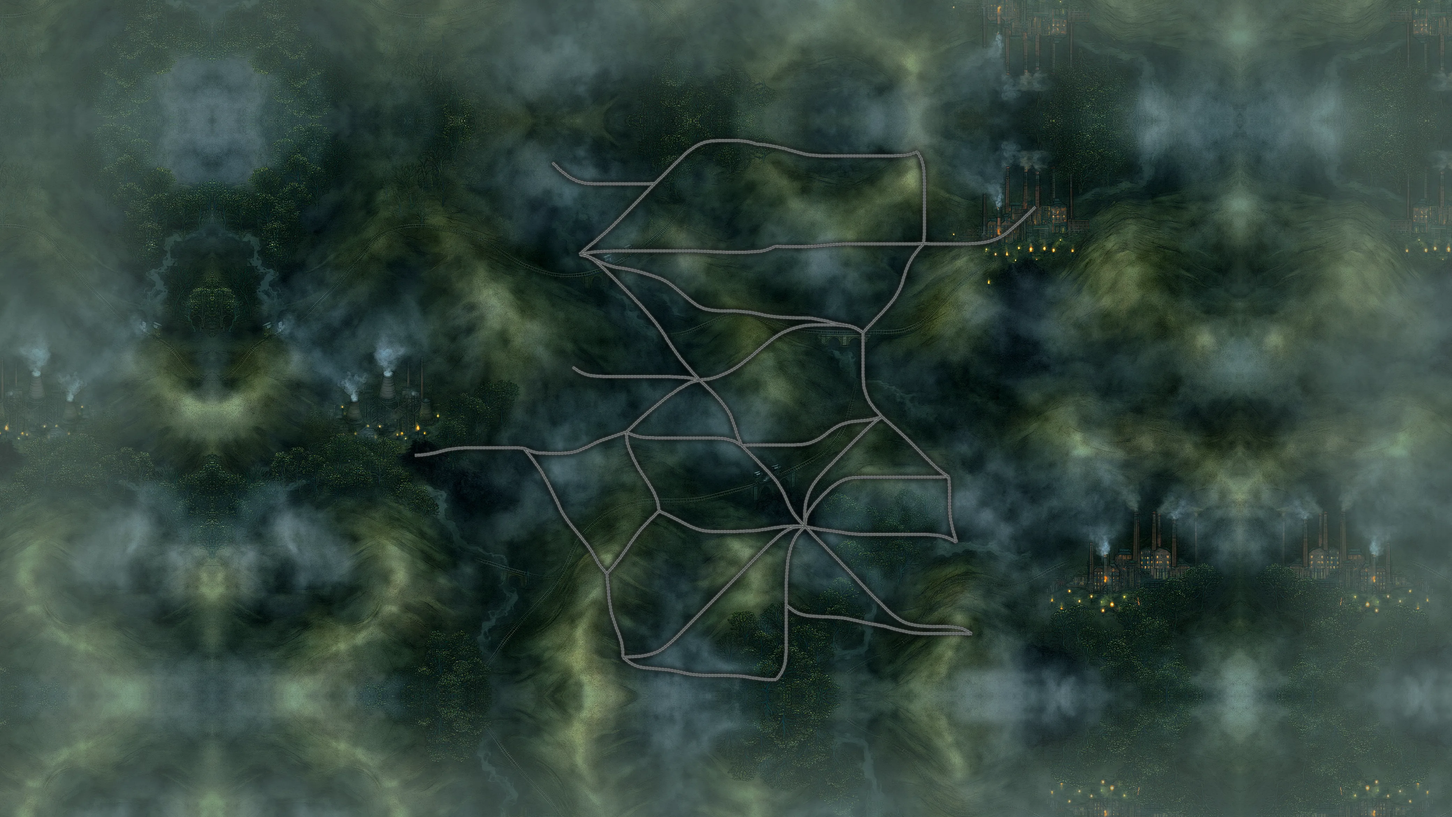
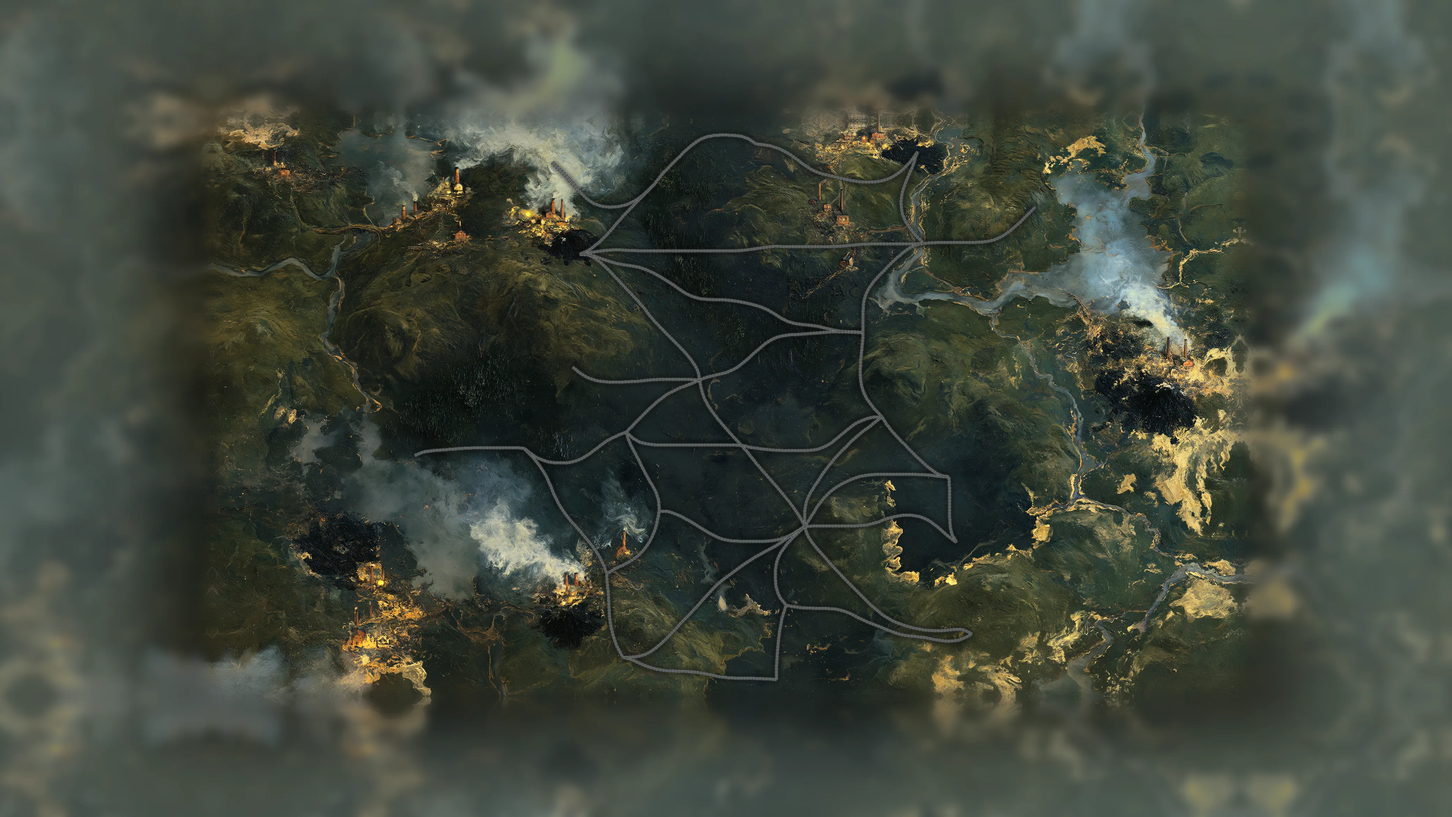
feat(assets): bare land for the rail era's second painting
The second painting no longer carries railways of its own: a plan view
of open hills, mills and slag heaps, so the engraved rails are the only
rails on the map. The routes are retraced on its relief. Past the
painting, the mirrored bleed is blurred and darkened: a bright mill at
the edge no longer comes back as a kaleidoscope.

diff --git a/app/src/components/game/railRoutes.ts b/app/src/components/game/railRoutes.ts
@@ -1,42 +1,42 @@
 /* generated by tools/map/rail-routes.py — the rail routes traced on the
  * relief of the rail-era painting; do not edit by hand */
 export const RAIL_ROUTES: Record<string, [number, number][]> = {
-  'nuneaton--coventry': [[2238, 1095], [2238, 1100], [2239, 1105], [2239, 1110], [2239, 1114], [2239, 1119], [2240, 1124], [2240, 1129], [2240, 1134], [2240, 1139], [2240, 1144], [2240, 1149], [2240, 1154], [2240, 1158], [2240, 1163], [2240, 1168], [2240, 1173], [2240, 1178], [2240, 1183], [2240, 1188], [2241, 1193], [2241, 1197], [2241, 1202], [2242, 1207], [2242, 1212], [2243, 1217], [2244, 1222], [2245, 1227], [2246, 1231], [2247, 1236], [2248, 1241], [2249, 1246], [2250, 1250], [2252, 1255], [2253, 1260], [2255, 1264], [2256, 1269], [2257, 1274], [2259, 1278], [2260, 1283]],
-  'redditch--m-gloucester': [[1772, 1463], [1772, 1469], [1772, 1474], [1772, 1480], [1772, 1486], [1772, 1491], [1772, 1497], [1772, 1502], [1772, 1508], [1772, 1514], [1772, 1519], [1772, 1525], [1772, 1531], [1772, 1536], [1772, 1542], [1772, 1548], [1772, 1553], [1772, 1559], [1772, 1564], [1772, 1570], [1772, 1576], [1772, 1581], [1772, 1587], [1772, 1593], [1772, 1598], [1771, 1604], [1771, 1609], [1770, 1615], [1770, 1621], [1769, 1626], [1768, 1632], [1766, 1637], [1765, 1643], [1762, 1648], [1760, 1653], [1757, 1658], [1754, 1662], [1751, 1667], [1747, 1671], [1744, 1676]],
-  'cannock--walsall': [[1524, 818], [1528, 822], [1532, 826], [1537, 830], [1541, 834], [1545, 838], [1549, 842], [1554, 846], [1558, 850], [1562, 854], [1566, 858], [1570, 862], [1574, 867], [1578, 871], [1582, 875], [1586, 880], [1589, 884], [1593, 889], [1596, 893], [1600, 898], [1603, 903], [1606, 908], [1609, 913], [1612, 918], [1614, 923], [1616, 929], [1618, 934], [1620, 939], [1622, 945], [1624, 950], [1626, 956], [1628, 962], [1629, 967], [1631, 973], [1633, 978], [1635, 983], [1638, 989], [1640, 994], [1642, 1000], [1644, 1005]],
-  'birmingham--redditch': [[1826, 1237], [1822, 1241], [1817, 1246], [1813, 1250], [1809, 1255], [1805, 1259], [1801, 1264], [1798, 1269], [1795, 1275], [1792, 1280], [1790, 1286], [1787, 1292], [1785, 1298], [1784, 1303], [1782, 1309], [1781, 1315], [1779, 1322], [1778, 1328], [1777, 1334], [1776, 1340], [1776, 1346], [1775, 1352], [1775, 1358], [1774, 1364], [1774, 1370], [1773, 1377], [1773, 1383], [1773, 1389], [1772, 1395], [1772, 1401], [1772, 1407], [1772, 1414], [1772, 1420], [1772, 1426], [1772, 1432], [1772, 1438], [1772, 1444], [1772, 1451], [1772, 1457], [1772, 1463]],
-  'dudley--kidderminster': [[1408, 1193], [1404, 1197], [1399, 1201], [1395, 1206], [1391, 1210], [1386, 1214], [1382, 1218], [1378, 1222], [1374, 1227], [1369, 1231], [1365, 1236], [1361, 1240], [1357, 1244], [1353, 1249], [1349, 1254], [1346, 1258], [1342, 1263], [1338, 1268], [1335, 1273], [1331, 1278], [1328, 1282], [1324, 1287], [1321, 1292], [1318, 1297], [1314, 1302], [1311, 1307], [1307, 1312], [1304, 1317], [1300, 1322], [1297, 1327], [1293, 1332], [1289, 1336], [1285, 1341], [1282, 1346], [1278, 1350], [1274, 1355], [1270, 1359], [1266, 1364], [1262, 1368], [1258, 1373]],
-  'stafford--cannock': [[1378, 630], [1382, 635], [1386, 639], [1390, 644], [1394, 649], [1398, 653], [1401, 658], [1405, 663], [1409, 668], [1412, 673], [1416, 678], [1419, 683], [1423, 688], [1426, 693], [1429, 699], [1432, 704], [1436, 709], [1439, 714], [1442, 719], [1446, 724], [1449, 729], [1453, 734], [1456, 739], [1460, 744], [1464, 749], [1467, 754], [1471, 759], [1475, 763], [1479, 768], [1483, 773], [1487, 777], [1491, 782], [1495, 786], [1499, 791], [1503, 796], [1507, 800], [1512, 805], [1516, 809], [1520, 814], [1524, 818]],
-  'kidderminster--worcester': [[1258, 1373], [1259, 1379], [1259, 1386], [1260, 1392], [1260, 1398], [1261, 1404], [1262, 1411], [1262, 1417], [1263, 1423], [1263, 1429], [1264, 1436], [1264, 1442], [1265, 1448], [1266, 1454], [1267, 1461], [1268, 1467], [1269, 1473], [1270, 1479], [1271, 1485], [1273, 1491], [1275, 1497], [1277, 1503], [1279, 1509], [1281, 1515], [1283, 1521], [1285, 1527], [1287, 1533], [1290, 1539], [1292, 1544], [1294, 1550], [1296, 1556], [1298, 1562], [1300, 1568], [1301, 1574], [1302, 1581], [1303, 1587], [1304, 1593], [1304, 1599], [1304, 1606], [1304, 1612]],
-  'wolverhampton--dudley': [[1314, 967], [1314, 973], [1315, 980], [1315, 986], [1316, 992], [1317, 999], [1319, 1005], [1321, 1011], [1323, 1017], [1326, 1023], [1328, 1028], [1331, 1034], [1333, 1040], [1336, 1046], [1339, 1051], [1342, 1057], [1345, 1063], [1348, 1068], [1351, 1074], [1355, 1079], [1358, 1085], [1362, 1090], [1365, 1095], [1369, 1100], [1372, 1106], [1376, 1111], [1379, 1116], [1382, 1122], [1386, 1127], [1389, 1133], [1392, 1138], [1395, 1144], [1397, 1150], [1400, 1156], [1402, 1162], [1404, 1168], [1405, 1174], [1406, 1180], [1407, 1187], [1408, 1193]],
-  'burton--tamworth': [[1992, 682], [1992, 689], [1992, 695], [1992, 702], [1992, 708], [1992, 715], [1992, 722], [1992, 728], [1992, 735], [1992, 741], [1992, 748], [1992, 754], [1992, 761], [1992, 768], [1992, 774], [1992, 781], [1992, 787], [1992, 794], [1992, 801], [1992, 807], [1993, 814], [1993, 820], [1994, 827], [1994, 833], [1995, 840], [1997, 846], [1999, 853], [2001, 859], [2003, 865], [2006, 871], [2009, 877], [2012, 883], [2016, 888], [2020, 893], [2024, 899], [2028, 904], [2033, 908], [2037, 913], [2042, 918], [2046, 923]],
-  'cannock--wolverhampton': [[1524, 818], [1518, 820], [1511, 821], [1505, 823], [1498, 825], [1492, 828], [1486, 831], [1481, 834], [1475, 838], [1469, 841], [1463, 844], [1458, 848], [1452, 852], [1447, 856], [1441, 859], [1436, 863], [1430, 867], [1425, 871], [1420, 875], [1415, 879], [1409, 884], [1404, 888], [1399, 892], [1394, 896], [1389, 900], [1383, 905], [1378, 909], [1373, 913], [1368, 918], [1363, 922], [1358, 926], [1353, 931], [1348, 935], [1343, 940], [1338, 944], [1334, 949], [1329, 953], [1324, 958], [1319, 962], [1314, 967]],
-  'tamworth--nuneaton': [[2046, 923], [2051, 927], [2056, 932], [2061, 936], [2066, 940], [2071, 944], [2076, 949], [2081, 953], [2086, 957], [2091, 962], [2096, 966], [2101, 971], [2106, 975], [2111, 980], [2116, 984], [2120, 989], [2125, 993], [2130, 998], [2135, 1003], [2139, 1007], [2144, 1012], [2149, 1017], [2153, 1021], [2158, 1026], [2163, 1031], [2167, 1035], [2172, 1040], [2177, 1045], [2182, 1049], [2186, 1054], [2191, 1058], [2196, 1063], [2201, 1068], [2206, 1072], [2211, 1076], [2216, 1080], [2221, 1084], [2227, 1088], [2232, 1091], [2238, 1095]],
-  'stone--stafford': [[1180, 458], [1187, 460], [1193, 461], [1200, 463], [1206, 465], [1212, 469], [1218, 472], [1223, 476], [1229, 481], [1234, 485], [1239, 489], [1244, 494], [1249, 498], [1254, 503], [1259, 508], [1264, 513], [1269, 517], [1274, 522], [1279, 527], [1284, 532], [1288, 536], [1293, 541], [1298, 546], [1303, 551], [1308, 556], [1313, 561], [1317, 565], [1322, 570], [1327, 575], [1332, 580], [1337, 585], [1341, 590], [1346, 595], [1351, 599], [1355, 604], [1360, 609], [1365, 615], [1369, 620], [1374, 625], [1378, 630]],
-  'belper--derby': [[2148, 164], [2151, 170], [2154, 176], [2158, 182], [2160, 188], [2162, 195], [2164, 202], [2165, 208], [2166, 215], [2167, 222], [2167, 229], [2167, 236], [2168, 242], [2168, 249], [2168, 256], [2168, 263], [2168, 270], [2168, 277], [2168, 283], [2168, 290], [2168, 297], [2168, 304], [2168, 311], [2168, 318], [2168, 324], [2168, 331], [2168, 338], [2168, 345], [2168, 352], [2168, 359], [2168, 365], [2168, 372], [2168, 379], [2168, 386], [2168, 393], [2168, 400], [2167, 407], [2167, 413], [2166, 420], [2166, 427]],
-  'birmingham--walsall': [[1826, 1237], [1821, 1232], [1815, 1226], [1810, 1221], [1805, 1215], [1800, 1209], [1795, 1203], [1791, 1197], [1787, 1190], [1783, 1183], [1780, 1177], [1777, 1170], [1774, 1163], [1771, 1156], [1768, 1149], [1765, 1142], [1761, 1135], [1757, 1128], [1753, 1122], [1749, 1115], [1745, 1109], [1740, 1103], [1735, 1097], [1730, 1092], [1725, 1086], [1720, 1080], [1714, 1075], [1709, 1069], [1704, 1064], [1698, 1059], [1693, 1053], [1688, 1048], [1682, 1042], [1677, 1037], [1671, 1032], [1666, 1026], [1660, 1021], [1655, 1016], [1649, 1010], [1644, 1005]],
-  'stoke--stone': [[1396, 255], [1391, 260], [1385, 266], [1380, 271], [1375, 277], [1369, 282], [1364, 288], [1359, 293], [1353, 299], [1348, 304], [1343, 309], [1337, 315], [1332, 320], [1327, 325], [1321, 331], [1316, 336], [1310, 342], [1305, 347], [1300, 352], [1294, 358], [1289, 363], [1283, 368], [1278, 374], [1272, 379], [1267, 384], [1261, 389], [1256, 394], [1250, 399], [1244, 404], [1238, 409], [1232, 414], [1227, 419], [1221, 424], [1215, 428], [1209, 433], [1203, 438], [1197, 443], [1191, 448], [1186, 453], [1180, 458]],
-  'wolverhampton--coalbrookdale': [[1314, 967], [1307, 969], [1299, 972], [1292, 974], [1284, 977], [1277, 979], [1269, 982], [1262, 984], [1254, 987], [1247, 989], [1239, 992], [1232, 995], [1225, 998], [1218, 1002], [1211, 1005], [1204, 1009], [1196, 1012], [1189, 1015], [1182, 1018], [1175, 1021], [1167, 1023], [1159, 1025], [1151, 1026], [1144, 1027], [1136, 1027], [1128, 1028], [1120, 1028], [1112, 1028], [1104, 1028], [1096, 1028], [1089, 1028], [1081, 1027], [1073, 1027], [1065, 1027], [1057, 1026], [1049, 1024], [1042, 1022], [1034, 1019], [1027, 1016], [1020, 1013]],
-  'm-warrington--stoke': [[1102, 195], [1108, 201], [1114, 206], [1119, 212], [1125, 217], [1131, 222], [1138, 227], [1144, 232], [1151, 237], [1158, 241], [1165, 244], [1172, 248], [1180, 250], [1187, 252], [1195, 254], [1203, 255], [1211, 255], [1219, 256], [1227, 256], [1235, 256], [1243, 256], [1251, 256], [1260, 256], [1268, 256], [1276, 256], [1284, 256], [1292, 256], [1300, 256], [1308, 256], [1316, 256], [1324, 256], [1332, 256], [1340, 256], [1348, 256], [1356, 256], [1364, 256], [1372, 256], [1380, 256], [1388, 255], [1396, 255]],
-  'derby--burton': [[2166, 427], [2161, 433], [2155, 439], [2150, 445], [2145, 451], [2140, 458], [2135, 464], [2131, 471], [2127, 478], [2123, 485], [2120, 492], [2117, 500], [2114, 507], [2112, 515], [2109, 523], [2107, 530], [2105, 538], [2102, 546], [2099, 553], [2096, 560], [2092, 567], [2088, 574], [2084, 581], [2079, 588], [2074, 594], [2069, 600], [2064, 606], [2059, 612], [2053, 618], [2048, 624], [2042, 630], [2036, 636], [2031, 641], [2025, 647], [2020, 653], [2014, 659], [2009, 664], [2003, 670], [1998, 676], [1992, 682]],
-  'stoke--leek': [[1396, 255], [1402, 249], [1408, 243], [1415, 237], [1421, 231], [1427, 225], [1433, 219], [1439, 213], [1445, 207], [1451, 201], [1457, 195], [1464, 189], [1470, 183], [1476, 177], [1482, 171], [1489, 165], [1496, 160], [1503, 155], [1510, 150], [1517, 146], [1525, 142], [1533, 139], [1541, 136], [1550, 135], [1558, 133], [1567, 133], [1575, 132], [1584, 132], [1592, 132], [1601, 132], [1610, 132], [1618, 132], [1627, 132], [1636, 132], [1644, 133], [1653, 134], [1661, 135], [1670, 137], [1678, 139], [1686, 142]],
-  'coalbrookdale--m-shrewsbury': [[1020, 1013], [1012, 1013], [1004, 1012], [996, 1012], [988, 1012], [980, 1012], [972, 1012], [964, 1012], [956, 1012], [948, 1012], [940, 1012], [931, 1012], [923, 1012], [915, 1012], [907, 1012], [899, 1012], [891, 1012], [883, 1012], [875, 1012], [867, 1012], [859, 1012], [851, 1012], [843, 1013], [835, 1013], [827, 1014], [819, 1015], [811, 1016], [803, 1017], [795, 1019], [787, 1021], [779, 1023], [772, 1025], [764, 1027], [756, 1028], [748, 1030], [740, 1031], [732, 1032], [724, 1033], [716, 1033], [708, 1034]],
-  'walsall--wolverhampton': [[1644, 1005], [1637, 1001], [1629, 996], [1621, 992], [1613, 990], [1605, 988], [1596, 986], [1588, 985], [1579, 985], [1570, 984], [1562, 984], [1553, 984], [1545, 984], [1536, 984], [1527, 984], [1519, 984], [1510, 984], [1501, 984], [1493, 984], [1484, 984], [1475, 984], [1467, 984], [1458, 984], [1450, 984], [1441, 984], [1432, 984], [1424, 984], [1415, 984], [1406, 984], [1398, 984], [1389, 983], [1380, 983], [1372, 983], [1363, 982], [1355, 981], [1346, 979], [1338, 977], [1330, 974], [1322, 971], [1314, 967]],
-  'derby--m-nottingham': [[2166, 427], [2175, 427], [2184, 428], [2193, 428], [2202, 428], [2212, 428], [2221, 428], [2230, 428], [2239, 428], [2248, 428], [2257, 428], [2266, 428], [2275, 428], [2284, 428], [2294, 428], [2303, 427], [2312, 427], [2321, 426], [2330, 425], [2339, 424], [2348, 422], [2357, 420], [2365, 417], [2374, 414], [2382, 410], [2390, 406], [2398, 401], [2405, 396], [2412, 390], [2419, 384], [2426, 378], [2433, 372], [2440, 366], [2447, 360], [2453, 354], [2460, 347], [2467, 341], [2473, 335], [2480, 328], [2486, 322]],
-  'cannock--farm-n': [[1524, 818], [1515, 816], [1505, 814], [1496, 812], [1487, 811], [1477, 810], [1468, 810], [1458, 809], [1449, 809], [1439, 808], [1430, 808], [1420, 808], [1411, 808], [1401, 808], [1392, 808], [1382, 808], [1373, 808], [1363, 808], [1354, 808], [1344, 808], [1335, 808], [1325, 808], [1316, 808], [1306, 808], [1297, 808], [1287, 808], [1278, 808], [1268, 808], [1259, 808], [1249, 808], [1240, 807], [1230, 807], [1221, 806], [1211, 805], [1202, 803], [1193, 800], [1184, 796], [1176, 792], [1168, 786], [1160, 781]],
-  'tamworth--birmingham': [[2046, 923], [2038, 929], [2029, 935], [2021, 942], [2014, 948], [2006, 955], [1999, 962], [1991, 969], [1984, 977], [1976, 984], [1969, 991], [1962, 998], [1954, 1006], [1947, 1013], [1940, 1020], [1933, 1027], [1925, 1035], [1918, 1042], [1911, 1049], [1904, 1057], [1896, 1064], [1889, 1071], [1882, 1079], [1875, 1086], [1868, 1094], [1861, 1102], [1855, 1110], [1849, 1118], [1844, 1127], [1839, 1136], [1835, 1146], [1832, 1155], [1829, 1165], [1827, 1175], [1826, 1186], [1825, 1196], [1825, 1206], [1825, 1216], [1825, 1227], [1826, 1237]],
-  'tamworth--walsall': [[2046, 923], [2036, 926], [2025, 929], [2015, 931], [2004, 933], [1993, 934], [1983, 935], [1972, 936], [1961, 937], [1951, 939], [1940, 942], [1930, 945], [1920, 950], [1911, 955], [1902, 961], [1893, 967], [1885, 974], [1876, 980], [1867, 986], [1857, 991], [1848, 995], [1837, 999], [1827, 1001], [1816, 1003], [1805, 1003], [1795, 1004], [1784, 1004], [1773, 1004], [1762, 1004], [1752, 1004], [1741, 1004], [1730, 1004], [1719, 1004], [1709, 1004], [1698, 1004], [1687, 1004], [1676, 1004], [1666, 1004], [1655, 1005], [1644, 1005]],
-  'birmingham--dudley': [[1826, 1237], [1815, 1237], [1804, 1236], [1793, 1236], [1782, 1237], [1771, 1237], [1760, 1238], [1749, 1240], [1738, 1241], [1727, 1243], [1716, 1245], [1705, 1246], [1694, 1248], [1683, 1249], [1672, 1250], [1661, 1250], [1650, 1251], [1639, 1251], [1628, 1252], [1617, 1252], [1606, 1252], [1595, 1252], [1584, 1252], [1572, 1252], [1561, 1252], [1550, 1251], [1539, 1250], [1529, 1248], [1518, 1245], [1507, 1241], [1497, 1237], [1487, 1232], [1477, 1227], [1468, 1222], [1458, 1217], [1448, 1212], [1438, 1207], [1428, 1202], [1418, 1198], [1408, 1193]],
-  'derby--uttoxeter': [[2166, 427], [2155, 427], [2144, 428], [2133, 428], [2122, 428], [2111, 428], [2100, 428], [2089, 428], [2079, 428], [2068, 428], [2057, 428], [2046, 428], [2035, 428], [2024, 428], [2013, 428], [2002, 428], [1991, 428], [1980, 428], [1969, 428], [1958, 428], [1947, 428], [1936, 428], [1926, 429], [1915, 429], [1904, 430], [1893, 431], [1882, 432], [1871, 433], [1860, 434], [1849, 435], [1838, 435], [1827, 436], [1817, 436], [1806, 436], [1795, 436], [1784, 436], [1773, 436], [1762, 436], [1751, 435], [1740, 435]],
-  'coalbrookdale--kidderminster': [[1020, 1013], [1027, 1022], [1034, 1030], [1041, 1039], [1048, 1048], [1054, 1057], [1061, 1066], [1067, 1075], [1073, 1084], [1078, 1094], [1084, 1104], [1089, 1113], [1094, 1123], [1099, 1133], [1104, 1143], [1109, 1153], [1114, 1163], [1119, 1173], [1123, 1183], [1128, 1193], [1134, 1203], [1140, 1212], [1146, 1221], [1153, 1230], [1160, 1239], [1167, 1247], [1174, 1256], [1181, 1264], [1188, 1273], [1195, 1282], [1202, 1290], [1208, 1299], [1215, 1309], [1220, 1318], [1226, 1328], [1231, 1338], [1237, 1347], [1244, 1356], [1251, 1364], [1258, 1373]],
-  'nuneaton--birmingham': [[2238, 1095], [2226, 1095], [2213, 1096], [2201, 1096], [2189, 1096], [2176, 1096], [2164, 1096], [2151, 1096], [2139, 1096], [2127, 1096], [2114, 1096], [2102, 1096], [2090, 1096], [2077, 1096], [2065, 1096], [2052, 1096], [2040, 1096], [2028, 1096], [2015, 1096], [2003, 1096], [1991, 1096], [1978, 1097], [1966, 1097], [1954, 1099], [1942, 1102], [1930, 1107], [1919, 1113], [1909, 1120], [1899, 1127], [1890, 1136], [1881, 1144], [1872, 1153], [1864, 1162], [1855, 1171], [1848, 1181], [1840, 1191], [1834, 1201], [1829, 1212], [1827, 1225], [1826, 1237]],
-  'coventry--birmingham': [[2260, 1283], [2250, 1277], [2240, 1272], [2230, 1268], [2219, 1265], [2208, 1263], [2197, 1262], [2185, 1261], [2174, 1260], [2163, 1260], [2152, 1260], [2140, 1260], [2129, 1260], [2118, 1260], [2106, 1260], [2095, 1260], [2084, 1260], [2073, 1260], [2061, 1260], [2050, 1260], [2039, 1260], [2027, 1260], [2016, 1260], [2005, 1260], [1994, 1260], [1982, 1260], [1971, 1259], [1960, 1258], [1949, 1257], [1937, 1255], [1926, 1253], [1915, 1252], [1904, 1250], [1893, 1249], [1881, 1247], [1870, 1246], [1859, 1244], [1848, 1242], [1837, 1240], [1826, 1237]],
-  'worcester--m-gloucester': [[1304, 1612], [1313, 1619], [1322, 1626], [1332, 1632], [1343, 1637], [1354, 1640], [1365, 1642], [1377, 1643], [1388, 1644], [1400, 1645], [1411, 1646], [1423, 1647], [1434, 1648], [1446, 1650], [1457, 1652], [1468, 1654], [1480, 1657], [1491, 1659], [1502, 1661], [1514, 1662], [1525, 1663], [1537, 1664], [1548, 1664], [1560, 1664], [1571, 1664], [1583, 1664], [1595, 1664], [1606, 1664], [1618, 1665], [1629, 1665], [1641, 1666], [1652, 1667], [1664, 1669], [1675, 1671], [1686, 1672], [1698, 1674], [1709, 1675], [1721, 1676], [1732, 1676], [1744, 1676]],
-  'leek--belper': [[1686, 142], [1698, 143], [1710, 144], [1722, 146], [1734, 148], [1745, 150], [1757, 153], [1769, 155], [1780, 159], [1792, 162], [1803, 165], [1815, 168], [1826, 171], [1838, 173], [1850, 174], [1862, 175], [1874, 176], [1886, 176], [1898, 176], [1910, 176], [1922, 176], [1934, 176], [1946, 176], [1958, 176], [1970, 176], [1982, 176], [1994, 176], [2006, 176], [2018, 176], [2030, 176], [2042, 176], [2054, 176], [2066, 176], [2078, 176], [2090, 175], [2102, 175], [2113, 174], [2125, 172], [2137, 168], [2148, 164]],
-  'burton--cannock': [[1992, 682], [1981, 675], [1969, 668], [1957, 664], [1944, 662], [1931, 661], [1917, 660], [1904, 660], [1891, 660], [1878, 660], [1864, 660], [1851, 660], [1838, 661], [1825, 662], [1812, 665], [1799, 668], [1786, 672], [1774, 677], [1762, 682], [1750, 689], [1739, 696], [1728, 704], [1718, 712], [1708, 720], [1697, 729], [1687, 737], [1677, 746], [1667, 754], [1656, 762], [1646, 770], [1635, 778], [1624, 785], [1612, 792], [1600, 798], [1588, 803], [1576, 808], [1563, 812], [1550, 815], [1537, 816], [1524, 818]],
-  'redditch--m-oxford': [[1772, 1463], [1783, 1471], [1795, 1480], [1807, 1486], [1820, 1490], [1834, 1493], [1848, 1494], [1862, 1495], [1876, 1496], [1890, 1496], [1904, 1497], [1918, 1498], [1932, 1499], [1945, 1501], [1959, 1504], [1973, 1507], [1986, 1510], [2000, 1513], [2014, 1516], [2027, 1518], [2041, 1521], [2055, 1523], [2068, 1527], [2082, 1531], [2095, 1534], [2109, 1537], [2123, 1540], [2136, 1542], [2150, 1543], [2164, 1544], [2178, 1544], [2192, 1544], [2206, 1544], [2220, 1544], [2234, 1544], [2248, 1544], [2262, 1544], [2276, 1544], [2290, 1545], [2304, 1545]],
-  'uttoxeter--stone': [[1740, 435], [1727, 441], [1713, 446], [1699, 449], [1685, 450], [1670, 451], [1656, 452], [1641, 452], [1627, 452], [1613, 452], [1598, 452], [1584, 451], [1569, 451], [1555, 450], [1540, 449], [1526, 449], [1512, 448], [1497, 448], [1483, 448], [1468, 448], [1454, 448], [1439, 448], [1425, 448], [1410, 448], [1396, 448], [1382, 448], [1367, 448], [1353, 448], [1338, 448], [1324, 448], [1309, 448], [1295, 448], [1280, 448], [1266, 449], [1252, 449], [1237, 450], [1223, 451], [1208, 453], [1194, 455], [1180, 458]],
-  'birmingham--m-oxford': [[1826, 1237], [1837, 1248], [1847, 1259], [1858, 1270], [1869, 1281], [1880, 1291], [1890, 1302], [1901, 1313], [1912, 1324], [1923, 1335], [1933, 1346], [1944, 1357], [1955, 1368], [1965, 1379], [1976, 1390], [1986, 1401], [1997, 1412], [2007, 1423], [2018, 1434], [2029, 1445], [2040, 1455], [2051, 1466], [2062, 1477], [2073, 1487], [2085, 1496], [2098, 1505], [2111, 1512], [2126, 1517], [2141, 1520], [2156, 1522], [2171, 1523], [2186, 1524], [2202, 1524], [2217, 1524], [2232, 1524], [2247, 1525], [2262, 1527], [2277, 1530], [2291, 1537], [2304, 1545]],
-  'birmingham--worcester': [[1826, 1237], [1809, 1238], [1792, 1240], [1777, 1247], [1762, 1256], [1749, 1266], [1736, 1278], [1723, 1289], [1711, 1301], [1699, 1313], [1687, 1325], [1675, 1337], [1663, 1349], [1651, 1361], [1639, 1373], [1627, 1385], [1615, 1397], [1603, 1409], [1590, 1422], [1578, 1434], [1566, 1446], [1554, 1458], [1542, 1470], [1530, 1482], [1518, 1494], [1506, 1506], [1494, 1518], [1482, 1530], [1470, 1542], [1458, 1554], [1445, 1566], [1432, 1577], [1419, 1587], [1404, 1596], [1388, 1602], [1372, 1606], [1355, 1609], [1338, 1610], [1321, 1611], [1304, 1612]],
-  'stone--burton': [[1180, 458], [1202, 463], [1222, 472], [1241, 481], [1262, 489], [1283, 495], [1305, 498], [1327, 502], [1348, 507], [1369, 513], [1391, 520], [1411, 527], [1431, 537], [1449, 550], [1466, 564], [1483, 578], [1500, 592], [1518, 605], [1538, 614], [1560, 618], [1582, 620], [1604, 620], [1626, 620], [1648, 622], [1669, 624], [1691, 628], [1713, 633], [1735, 636], [1757, 638], [1779, 639], [1801, 640], [1823, 640], [1845, 641], [1866, 645], [1888, 649], [1909, 655], [1931, 659], [1953, 663], [1973, 670], [1992, 682]],
+  'nuneaton--coventry': [[2238, 1095], [2238, 1100], [2239, 1105], [2239, 1110], [2239, 1115], [2239, 1120], [2240, 1125], [2240, 1129], [2240, 1134], [2240, 1139], [2240, 1144], [2240, 1149], [2240, 1154], [2240, 1159], [2240, 1164], [2240, 1169], [2240, 1174], [2240, 1179], [2240, 1184], [2240, 1189], [2240, 1194], [2240, 1198], [2240, 1203], [2240, 1208], [2240, 1213], [2241, 1218], [2241, 1223], [2241, 1228], [2242, 1233], [2242, 1238], [2243, 1243], [2244, 1248], [2245, 1252], [2246, 1257], [2248, 1262], [2250, 1266], [2253, 1270], [2255, 1274], [2258, 1279], [2260, 1283]],
+  'redditch--m-gloucester': [[1772, 1463], [1770, 1468], [1768, 1473], [1767, 1479], [1765, 1484], [1763, 1489], [1762, 1495], [1760, 1500], [1759, 1505], [1758, 1511], [1757, 1516], [1756, 1522], [1755, 1527], [1754, 1533], [1753, 1538], [1752, 1543], [1752, 1549], [1751, 1554], [1750, 1560], [1750, 1565], [1749, 1571], [1749, 1577], [1748, 1582], [1748, 1588], [1747, 1593], [1747, 1599], [1746, 1604], [1746, 1610], [1746, 1615], [1745, 1621], [1745, 1626], [1745, 1632], [1744, 1637], [1744, 1643], [1744, 1648], [1744, 1654], [1744, 1659], [1744, 1665], [1744, 1670], [1744, 1676]],
+  'cannock--walsall': [[1524, 818], [1525, 824], [1526, 829], [1527, 835], [1528, 841], [1530, 846], [1531, 852], [1533, 858], [1535, 863], [1537, 869], [1539, 874], [1542, 879], [1545, 884], [1547, 889], [1550, 894], [1554, 899], [1557, 904], [1560, 909], [1564, 913], [1567, 918], [1571, 922], [1574, 927], [1578, 932], [1582, 936], [1585, 940], [1589, 945], [1593, 949], [1597, 954], [1601, 958], [1604, 962], [1608, 967], [1612, 971], [1616, 975], [1620, 980], [1624, 984], [1628, 988], [1632, 992], [1636, 997], [1640, 1001], [1644, 1005]],
+  'birmingham--redditch': [[1826, 1237], [1821, 1242], [1816, 1246], [1811, 1251], [1806, 1255], [1801, 1260], [1796, 1265], [1791, 1269], [1787, 1274], [1782, 1279], [1777, 1284], [1773, 1289], [1769, 1295], [1765, 1300], [1761, 1306], [1757, 1311], [1754, 1317], [1751, 1323], [1748, 1330], [1746, 1336], [1744, 1343], [1743, 1349], [1742, 1356], [1741, 1363], [1741, 1370], [1741, 1376], [1741, 1383], [1741, 1390], [1742, 1397], [1742, 1403], [1743, 1410], [1745, 1417], [1747, 1423], [1749, 1430], [1752, 1436], [1755, 1442], [1759, 1447], [1763, 1452], [1768, 1458], [1772, 1463]],
+  'dudley--kidderminster': [[1408, 1193], [1407, 1199], [1406, 1206], [1405, 1212], [1403, 1218], [1402, 1224], [1401, 1230], [1399, 1237], [1397, 1243], [1395, 1249], [1393, 1255], [1390, 1261], [1388, 1267], [1385, 1272], [1382, 1278], [1379, 1283], [1375, 1289], [1372, 1294], [1368, 1299], [1364, 1304], [1360, 1309], [1355, 1313], [1351, 1318], [1346, 1322], [1341, 1326], [1336, 1330], [1331, 1333], [1325, 1337], [1320, 1340], [1314, 1343], [1308, 1346], [1303, 1349], [1297, 1351], [1291, 1354], [1285, 1357], [1280, 1359], [1274, 1363], [1269, 1366], [1263, 1370], [1258, 1373]],
+  'stafford--cannock': [[1378, 630], [1382, 635], [1386, 639], [1390, 644], [1394, 649], [1398, 653], [1403, 658], [1407, 662], [1411, 667], [1416, 671], [1420, 676], [1424, 680], [1429, 685], [1433, 689], [1437, 693], [1442, 698], [1446, 702], [1451, 707], [1455, 711], [1459, 715], [1464, 720], [1468, 724], [1472, 729], [1477, 733], [1481, 738], [1485, 742], [1489, 747], [1493, 752], [1497, 757], [1501, 762], [1504, 767], [1508, 772], [1511, 777], [1514, 782], [1517, 788], [1519, 794], [1521, 800], [1522, 806], [1523, 812], [1524, 818]],
+  'kidderminster--worcester': [[1258, 1373], [1258, 1379], [1258, 1386], [1259, 1392], [1259, 1398], [1260, 1405], [1260, 1411], [1261, 1417], [1262, 1423], [1262, 1430], [1263, 1436], [1263, 1442], [1263, 1449], [1264, 1455], [1264, 1461], [1264, 1468], [1265, 1474], [1265, 1480], [1265, 1486], [1266, 1493], [1266, 1499], [1267, 1505], [1268, 1512], [1269, 1518], [1270, 1524], [1271, 1530], [1273, 1536], [1274, 1543], [1276, 1549], [1278, 1555], [1280, 1561], [1282, 1567], [1284, 1573], [1286, 1579], [1289, 1584], [1292, 1590], [1295, 1596], [1298, 1601], [1301, 1607], [1304, 1612]],
+  'wolverhampton--dudley': [[1314, 967], [1316, 973], [1317, 979], [1319, 985], [1321, 991], [1324, 997], [1326, 1003], [1329, 1008], [1332, 1014], [1335, 1020], [1338, 1025], [1341, 1031], [1344, 1037], [1347, 1042], [1350, 1048], [1353, 1054], [1355, 1059], [1358, 1065], [1361, 1071], [1364, 1076], [1367, 1082], [1370, 1088], [1373, 1093], [1376, 1099], [1379, 1104], [1382, 1110], [1386, 1115], [1389, 1121], [1392, 1126], [1395, 1132], [1398, 1137], [1400, 1143], [1402, 1149], [1404, 1155], [1406, 1161], [1407, 1168], [1407, 1174], [1408, 1180], [1408, 1187], [1408, 1193]],
+  'burton--tamworth': [[1992, 682], [1992, 689], [1992, 695], [1991, 702], [1991, 709], [1990, 715], [1989, 722], [1989, 729], [1988, 735], [1987, 742], [1987, 749], [1986, 755], [1985, 762], [1985, 769], [1985, 775], [1984, 782], [1984, 789], [1984, 795], [1984, 802], [1985, 809], [1985, 815], [1986, 822], [1987, 828], [1988, 835], [1990, 841], [1992, 848], [1994, 854], [1997, 860], [2000, 866], [2003, 872], [2007, 877], [2011, 883], [2015, 888], [2019, 893], [2023, 899], [2028, 904], [2032, 908], [2037, 913], [2041, 918], [2046, 923]],
+  'cannock--wolverhampton': [[1524, 818], [1518, 821], [1512, 823], [1506, 826], [1499, 829], [1493, 831], [1487, 833], [1481, 836], [1474, 838], [1468, 840], [1462, 843], [1456, 846], [1450, 849], [1444, 852], [1438, 855], [1432, 858], [1426, 862], [1421, 866], [1416, 870], [1410, 874], [1405, 878], [1400, 882], [1395, 887], [1390, 891], [1385, 896], [1380, 900], [1375, 905], [1370, 910], [1366, 914], [1361, 919], [1356, 924], [1351, 929], [1347, 933], [1342, 938], [1337, 943], [1333, 948], [1328, 953], [1323, 957], [1319, 962], [1314, 967]],
+  'tamworth--nuneaton': [[2046, 923], [2050, 929], [2053, 934], [2057, 940], [2060, 946], [2065, 951], [2069, 957], [2073, 962], [2077, 967], [2082, 972], [2086, 977], [2091, 982], [2096, 987], [2100, 992], [2105, 997], [2110, 1001], [2115, 1006], [2119, 1011], [2124, 1016], [2129, 1021], [2134, 1026], [2138, 1030], [2143, 1035], [2148, 1040], [2153, 1044], [2158, 1049], [2163, 1054], [2168, 1058], [2173, 1063], [2178, 1067], [2183, 1071], [2189, 1075], [2194, 1079], [2200, 1083], [2206, 1087], [2212, 1089], [2218, 1092], [2225, 1093], [2231, 1094], [2238, 1095]],
+  'stone--stafford': [[1180, 458], [1187, 458], [1194, 459], [1201, 459], [1207, 461], [1214, 464], [1220, 467], [1226, 471], [1231, 475], [1237, 479], [1242, 483], [1247, 488], [1252, 492], [1257, 497], [1262, 502], [1267, 507], [1272, 512], [1277, 517], [1281, 522], [1286, 527], [1291, 532], [1296, 537], [1300, 542], [1305, 547], [1310, 552], [1314, 557], [1319, 562], [1324, 567], [1329, 572], [1333, 577], [1338, 582], [1343, 587], [1348, 592], [1352, 598], [1357, 603], [1361, 608], [1366, 613], [1370, 619], [1374, 624], [1378, 630]],
+  'belper--derby': [[2148, 164], [2146, 171], [2143, 178], [2141, 185], [2139, 193], [2136, 200], [2134, 207], [2131, 214], [2128, 220], [2125, 227], [2122, 234], [2119, 241], [2116, 248], [2113, 255], [2111, 262], [2108, 269], [2106, 276], [2104, 283], [2103, 291], [2102, 298], [2101, 306], [2101, 313], [2102, 321], [2102, 328], [2104, 336], [2105, 343], [2108, 350], [2111, 357], [2114, 364], [2118, 370], [2122, 376], [2126, 382], [2131, 388], [2135, 394], [2140, 400], [2145, 405], [2150, 411], [2156, 416], [2161, 422], [2166, 427]],
+  'birmingham--walsall': [[1826, 1237], [1822, 1230], [1819, 1224], [1815, 1217], [1811, 1210], [1807, 1204], [1803, 1198], [1799, 1192], [1794, 1185], [1790, 1179], [1785, 1173], [1781, 1167], [1776, 1161], [1771, 1155], [1766, 1149], [1762, 1144], [1757, 1138], [1752, 1132], [1747, 1126], [1742, 1120], [1737, 1115], [1732, 1109], [1727, 1103], [1722, 1098], [1717, 1092], [1712, 1086], [1707, 1081], [1702, 1075], [1697, 1069], [1692, 1063], [1687, 1058], [1683, 1052], [1678, 1046], [1673, 1040], [1668, 1034], [1664, 1028], [1659, 1022], [1654, 1017], [1649, 1011], [1644, 1005]],
+  'stoke--stone': [[1396, 255], [1391, 261], [1385, 266], [1380, 272], [1375, 277], [1369, 282], [1364, 288], [1359, 293], [1353, 299], [1348, 304], [1342, 310], [1337, 315], [1332, 321], [1326, 326], [1321, 332], [1316, 337], [1310, 343], [1305, 348], [1300, 354], [1295, 360], [1290, 365], [1285, 371], [1280, 377], [1275, 383], [1270, 389], [1265, 394], [1260, 400], [1254, 406], [1249, 411], [1244, 416], [1238, 422], [1232, 427], [1226, 431], [1220, 436], [1214, 441], [1208, 445], [1201, 449], [1194, 452], [1187, 455], [1180, 458]],
+  'wolverhampton--coalbrookdale': [[1314, 967], [1306, 970], [1298, 973], [1290, 976], [1283, 980], [1275, 983], [1268, 987], [1260, 991], [1253, 996], [1246, 1001], [1239, 1006], [1233, 1011], [1226, 1016], [1219, 1021], [1213, 1026], [1206, 1031], [1199, 1035], [1191, 1040], [1184, 1044], [1176, 1047], [1168, 1050], [1160, 1052], [1152, 1054], [1144, 1055], [1135, 1055], [1127, 1055], [1118, 1055], [1110, 1055], [1102, 1054], [1093, 1053], [1085, 1051], [1077, 1048], [1069, 1045], [1061, 1042], [1054, 1038], [1047, 1033], [1040, 1028], [1033, 1023], [1027, 1018], [1020, 1013]],
+  'm-warrington--stoke': [[1102, 195], [1109, 202], [1115, 208], [1122, 215], [1129, 221], [1135, 228], [1142, 235], [1148, 242], [1154, 249], [1161, 256], [1167, 263], [1173, 270], [1179, 277], [1186, 284], [1192, 290], [1199, 297], [1206, 303], [1214, 308], [1222, 313], [1231, 316], [1240, 319], [1249, 321], [1258, 322], [1268, 323], [1277, 322], [1286, 322], [1296, 320], [1305, 318], [1314, 316], [1323, 312], [1331, 308], [1339, 304], [1347, 299], [1355, 293], [1362, 288], [1369, 281], [1376, 275], [1383, 268], [1389, 262], [1396, 255]],
+  'derby--burton': [[2166, 427], [2157, 428], [2149, 430], [2141, 432], [2133, 436], [2125, 440], [2118, 445], [2111, 450], [2104, 455], [2098, 461], [2091, 466], [2085, 472], [2078, 478], [2072, 484], [2066, 490], [2060, 496], [2054, 503], [2048, 509], [2042, 515], [2036, 521], [2030, 528], [2024, 534], [2019, 541], [2014, 548], [2009, 555], [2005, 563], [2001, 571], [1998, 579], [1996, 587], [1994, 596], [1993, 604], [1993, 613], [1992, 621], [1992, 630], [1992, 639], [1992, 647], [1992, 656], [1992, 665], [1992, 673], [1992, 682]],
+  'stoke--leek': [[1396, 255], [1401, 248], [1407, 241], [1412, 234], [1418, 227], [1424, 220], [1431, 214], [1437, 207], [1443, 201], [1449, 195], [1456, 188], [1462, 182], [1469, 176], [1475, 169], [1481, 163], [1488, 157], [1495, 151], [1502, 145], [1509, 140], [1516, 135], [1524, 130], [1532, 126], [1540, 123], [1549, 120], [1558, 119], [1566, 117], [1575, 117], [1584, 116], [1593, 116], [1602, 116], [1611, 117], [1620, 117], [1629, 118], [1638, 119], [1647, 121], [1655, 124], [1664, 127], [1671, 132], [1679, 137], [1686, 142]],
+  'coalbrookdale--m-shrewsbury': [[1020, 1013], [1012, 1013], [1004, 1012], [996, 1012], [988, 1012], [980, 1012], [972, 1012], [964, 1012], [956, 1012], [947, 1012], [939, 1012], [931, 1012], [923, 1012], [915, 1012], [907, 1012], [899, 1012], [891, 1012], [883, 1012], [875, 1012], [867, 1013], [859, 1013], [851, 1013], [843, 1014], [835, 1014], [827, 1015], [819, 1016], [810, 1016], [802, 1017], [794, 1018], [786, 1018], [778, 1019], [770, 1019], [762, 1020], [754, 1021], [746, 1022], [738, 1023], [730, 1025], [723, 1028], [715, 1031], [708, 1034]],
+  'walsall--wolverhampton': [[1644, 1005], [1635, 1005], [1627, 1004], [1618, 1004], [1609, 1004], [1600, 1004], [1592, 1004], [1583, 1004], [1574, 1004], [1565, 1004], [1557, 1004], [1548, 1004], [1539, 1004], [1530, 1004], [1522, 1004], [1513, 1004], [1504, 1004], [1495, 1004], [1487, 1004], [1478, 1004], [1469, 1004], [1461, 1004], [1452, 1004], [1443, 1004], [1434, 1004], [1426, 1004], [1417, 1004], [1408, 1004], [1399, 1004], [1391, 1003], [1382, 1002], [1373, 1001], [1365, 999], [1356, 997], [1348, 994], [1341, 989], [1333, 985], [1327, 979], [1320, 973], [1314, 967]],
+  'derby--m-nottingham': [[2166, 427], [2175, 426], [2184, 425], [2193, 425], [2202, 424], [2211, 424], [2221, 424], [2230, 424], [2239, 424], [2248, 424], [2257, 424], [2266, 424], [2275, 424], [2284, 424], [2293, 424], [2302, 424], [2312, 424], [2321, 423], [2330, 423], [2339, 422], [2348, 421], [2357, 419], [2366, 417], [2374, 414], [2383, 410], [2391, 406], [2399, 401], [2406, 396], [2413, 391], [2420, 385], [2427, 379], [2434, 373], [2441, 367], [2447, 361], [2454, 354], [2460, 348], [2467, 341], [2473, 335], [2480, 328], [2486, 322]],
+  'cannock--farm-n': [[1524, 818], [1514, 817], [1505, 817], [1495, 816], [1486, 816], [1476, 816], [1466, 816], [1457, 816], [1447, 816], [1437, 816], [1428, 816], [1418, 816], [1408, 816], [1399, 817], [1389, 817], [1380, 818], [1370, 819], [1360, 820], [1351, 821], [1341, 822], [1332, 822], [1322, 823], [1312, 823], [1303, 824], [1293, 824], [1284, 824], [1274, 824], [1264, 824], [1255, 823], [1245, 822], [1236, 821], [1226, 819], [1217, 816], [1208, 813], [1199, 809], [1191, 804], [1183, 799], [1175, 793], [1168, 787], [1160, 781]],
+  'tamworth--birmingham': [[2046, 923], [2038, 930], [2030, 936], [2022, 942], [2014, 949], [2006, 955], [1997, 961], [1989, 967], [1981, 974], [1974, 980], [1966, 987], [1958, 994], [1951, 1001], [1944, 1009], [1936, 1016], [1929, 1023], [1922, 1031], [1915, 1038], [1908, 1046], [1902, 1054], [1895, 1062], [1889, 1070], [1883, 1078], [1877, 1086], [1871, 1095], [1866, 1103], [1860, 1112], [1854, 1120], [1849, 1129], [1843, 1138], [1838, 1147], [1834, 1156], [1830, 1166], [1828, 1176], [1826, 1186], [1825, 1196], [1825, 1206], [1825, 1217], [1825, 1227], [1826, 1237]],
+  'tamworth--walsall': [[2046, 923], [2035, 924], [2024, 924], [2013, 926], [2002, 929], [1992, 933], [1982, 937], [1972, 942], [1963, 948], [1954, 955], [1945, 962], [1937, 969], [1928, 976], [1920, 983], [1911, 990], [1903, 997], [1893, 1003], [1884, 1008], [1874, 1012], [1863, 1016], [1852, 1018], [1841, 1019], [1830, 1020], [1819, 1020], [1808, 1020], [1797, 1020], [1786, 1020], [1775, 1020], [1764, 1020], [1753, 1019], [1742, 1019], [1731, 1018], [1720, 1017], [1709, 1016], [1698, 1015], [1687, 1013], [1676, 1012], [1665, 1010], [1655, 1007], [1644, 1005]],
+  'birmingham--dudley': [[1826, 1237], [1816, 1243], [1807, 1249], [1797, 1255], [1787, 1261], [1776, 1266], [1766, 1270], [1755, 1274], [1744, 1276], [1732, 1278], [1721, 1279], [1709, 1280], [1698, 1280], [1686, 1280], [1675, 1280], [1663, 1280], [1652, 1280], [1641, 1280], [1629, 1279], [1618, 1279], [1606, 1277], [1595, 1275], [1584, 1272], [1573, 1267], [1563, 1262], [1553, 1257], [1543, 1251], [1533, 1245], [1523, 1239], [1514, 1233], [1504, 1227], [1494, 1221], [1484, 1216], [1474, 1210], [1463, 1205], [1453, 1201], [1442, 1197], [1431, 1194], [1419, 1194], [1408, 1193]],
+  'derby--uttoxeter': [[2166, 427], [2155, 427], [2144, 428], [2133, 428], [2122, 428], [2111, 428], [2100, 428], [2089, 428], [2079, 428], [2068, 428], [2057, 428], [2046, 428], [2035, 428], [2024, 428], [2013, 428], [2002, 429], [1991, 429], [1980, 430], [1969, 431], [1958, 432], [1948, 433], [1937, 434], [1926, 435], [1915, 435], [1904, 436], [1893, 436], [1882, 436], [1871, 436], [1860, 436], [1849, 436], [1838, 436], [1827, 436], [1817, 436], [1806, 436], [1795, 436], [1784, 436], [1773, 436], [1762, 436], [1751, 435], [1740, 435]],
+  'coalbrookdale--kidderminster': [[1020, 1013], [1028, 1021], [1036, 1029], [1044, 1037], [1051, 1045], [1058, 1054], [1065, 1063], [1071, 1072], [1077, 1081], [1083, 1091], [1088, 1101], [1092, 1111], [1097, 1121], [1101, 1132], [1105, 1142], [1110, 1152], [1115, 1162], [1120, 1172], [1126, 1182], [1132, 1191], [1138, 1200], [1145, 1209], [1152, 1218], [1159, 1226], [1167, 1234], [1174, 1243], [1182, 1251], [1189, 1260], [1196, 1268], [1203, 1277], [1210, 1285], [1217, 1294], [1223, 1303], [1230, 1313], [1236, 1322], [1241, 1332], [1246, 1342], [1251, 1352], [1254, 1362], [1258, 1373]],
+  'nuneaton--birmingham': [[2238, 1095], [2226, 1095], [2214, 1094], [2202, 1093], [2189, 1091], [2177, 1090], [2165, 1089], [2153, 1089], [2141, 1088], [2129, 1088], [2117, 1088], [2104, 1088], [2092, 1088], [2080, 1088], [2068, 1088], [2056, 1088], [2043, 1088], [2031, 1088], [2019, 1089], [2007, 1090], [1995, 1092], [1983, 1094], [1971, 1098], [1960, 1102], [1949, 1107], [1938, 1112], [1927, 1118], [1917, 1124], [1907, 1131], [1897, 1139], [1889, 1147], [1880, 1156], [1872, 1166], [1865, 1175], [1858, 1185], [1852, 1196], [1845, 1206], [1839, 1216], [1832, 1227], [1826, 1237]],
+  'coventry--birmingham': [[2260, 1283], [2250, 1276], [2241, 1269], [2232, 1262], [2223, 1254], [2214, 1246], [2205, 1238], [2195, 1231], [2186, 1224], [2176, 1218], [2165, 1213], [2154, 1209], [2142, 1207], [2130, 1205], [2118, 1205], [2107, 1205], [2095, 1207], [2083, 1209], [2072, 1212], [2060, 1215], [2049, 1219], [2038, 1224], [2027, 1227], [2015, 1230], [2004, 1233], [1992, 1234], [1980, 1235], [1968, 1236], [1956, 1236], [1945, 1236], [1933, 1236], [1921, 1236], [1909, 1236], [1897, 1236], [1885, 1236], [1873, 1236], [1862, 1236], [1850, 1236], [1838, 1237], [1826, 1237]],
+  'worcester--m-gloucester': [[1304, 1612], [1315, 1615], [1326, 1618], [1337, 1622], [1347, 1627], [1358, 1632], [1368, 1636], [1379, 1640], [1390, 1643], [1401, 1646], [1413, 1648], [1424, 1650], [1435, 1651], [1447, 1651], [1458, 1652], [1470, 1652], [1481, 1652], [1493, 1653], [1504, 1654], [1516, 1655], [1527, 1657], [1538, 1659], [1550, 1661], [1561, 1663], [1572, 1666], [1583, 1668], [1595, 1669], [1606, 1671], [1618, 1671], [1629, 1672], [1641, 1672], [1652, 1672], [1664, 1672], [1675, 1672], [1687, 1673], [1698, 1673], [1710, 1674], [1721, 1674], [1733, 1675], [1744, 1676]],
+  'leek--belper': [[1686, 142], [1699, 143], [1713, 145], [1726, 147], [1738, 151], [1751, 155], [1763, 161], [1775, 167], [1786, 174], [1797, 182], [1808, 190], [1818, 198], [1829, 205], [1841, 213], [1852, 219], [1865, 224], [1877, 228], [1890, 231], [1903, 234], [1916, 237], [1929, 240], [1942, 243], [1955, 246], [1968, 248], [1982, 250], [1995, 251], [2008, 251], [2022, 251], [2035, 249], [2048, 247], [2061, 243], [2073, 238], [2085, 231], [2095, 224], [2106, 215], [2115, 206], [2125, 196], [2133, 186], [2141, 175], [2148, 164]],
+  'burton--cannock': [[1992, 682], [1979, 681], [1966, 680], [1953, 680], [1940, 680], [1927, 680], [1914, 680], [1901, 680], [1888, 681], [1876, 682], [1863, 683], [1850, 684], [1837, 685], [1824, 686], [1811, 687], [1798, 688], [1785, 688], [1772, 690], [1759, 692], [1747, 695], [1735, 700], [1724, 706], [1713, 713], [1703, 721], [1693, 730], [1683, 738], [1673, 747], [1664, 756], [1654, 764], [1644, 772], [1634, 780], [1622, 787], [1611, 792], [1599, 797], [1586, 800], [1573, 803], [1561, 806], [1548, 809], [1536, 813], [1524, 818]],
+  'redditch--m-oxford': [[1772, 1463], [1786, 1466], [1800, 1468], [1814, 1470], [1828, 1471], [1842, 1471], [1856, 1472], [1871, 1472], [1885, 1472], [1899, 1473], [1913, 1474], [1927, 1477], [1941, 1481], [1954, 1486], [1966, 1492], [1979, 1499], [1992, 1505], [2005, 1511], [2018, 1516], [2031, 1521], [2044, 1526], [2057, 1532], [2071, 1537], [2084, 1542], [2097, 1546], [2111, 1549], [2125, 1551], [2139, 1552], [2153, 1554], [2167, 1555], [2181, 1558], [2195, 1561], [2209, 1563], [2223, 1565], [2237, 1566], [2252, 1565], [2266, 1563], [2279, 1558], [2292, 1552], [2304, 1545]],
+  'uttoxeter--stone': [[1740, 435], [1726, 436], [1711, 438], [1697, 440], [1683, 442], [1669, 444], [1654, 446], [1640, 447], [1626, 448], [1611, 448], [1597, 448], [1582, 448], [1568, 448], [1554, 448], [1539, 448], [1525, 448], [1510, 448], [1496, 448], [1482, 448], [1467, 448], [1453, 448], [1438, 448], [1424, 448], [1409, 448], [1395, 448], [1381, 448], [1366, 448], [1352, 448], [1337, 447], [1323, 447], [1309, 446], [1294, 445], [1280, 445], [1265, 446], [1251, 447], [1237, 449], [1223, 451], [1208, 453], [1194, 456], [1180, 458]],
+  'birmingham--m-oxford': [[1826, 1237], [1829, 1252], [1835, 1266], [1844, 1280], [1853, 1292], [1863, 1304], [1874, 1316], [1884, 1327], [1894, 1339], [1905, 1351], [1915, 1362], [1926, 1373], [1937, 1385], [1948, 1396], [1959, 1407], [1970, 1418], [1981, 1429], [1992, 1440], [2003, 1451], [2014, 1462], [2026, 1472], [2038, 1482], [2050, 1492], [2064, 1500], [2077, 1508], [2092, 1514], [2106, 1519], [2121, 1524], [2136, 1528], [2152, 1531], [2167, 1534], [2183, 1535], [2198, 1536], [2214, 1536], [2229, 1535], [2245, 1533], [2260, 1532], [2276, 1532], [2290, 1538], [2304, 1545]],
+  'birmingham--worcester': [[1826, 1237], [1812, 1246], [1798, 1255], [1784, 1265], [1770, 1274], [1756, 1284], [1742, 1293], [1727, 1301], [1712, 1309], [1698, 1317], [1683, 1325], [1669, 1334], [1655, 1343], [1641, 1353], [1627, 1363], [1614, 1373], [1600, 1383], [1587, 1393], [1574, 1404], [1562, 1416], [1551, 1428], [1539, 1441], [1528, 1453], [1517, 1466], [1505, 1478], [1494, 1490], [1482, 1502], [1470, 1514], [1459, 1527], [1447, 1539], [1436, 1551], [1424, 1563], [1412, 1574], [1399, 1585], [1385, 1595], [1370, 1603], [1354, 1608], [1338, 1611], [1321, 1612], [1304, 1612]],
+  'stone--burton': [[1180, 458], [1202, 458], [1223, 463], [1244, 471], [1265, 478], [1286, 484], [1307, 488], [1329, 491], [1351, 495], [1371, 502], [1391, 511], [1411, 522], [1429, 533], [1448, 545], [1466, 558], [1484, 570], [1504, 579], [1525, 585], [1547, 587], [1569, 588], [1591, 588], [1613, 590], [1635, 593], [1656, 597], [1677, 602], [1698, 608], [1719, 617], [1738, 628], [1756, 640], [1776, 650], [1796, 656], [1818, 659], [1840, 661], [1862, 664], [1883, 669], [1905, 674], [1926, 678], [1948, 680], [1970, 681], [1992, 682]],
 };
